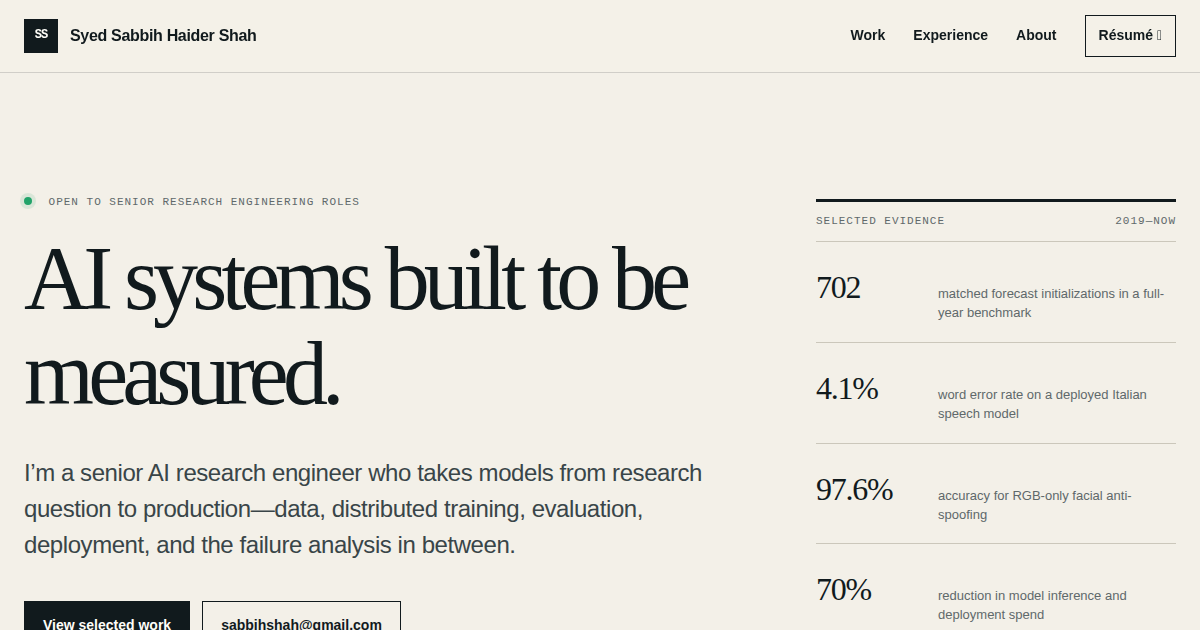
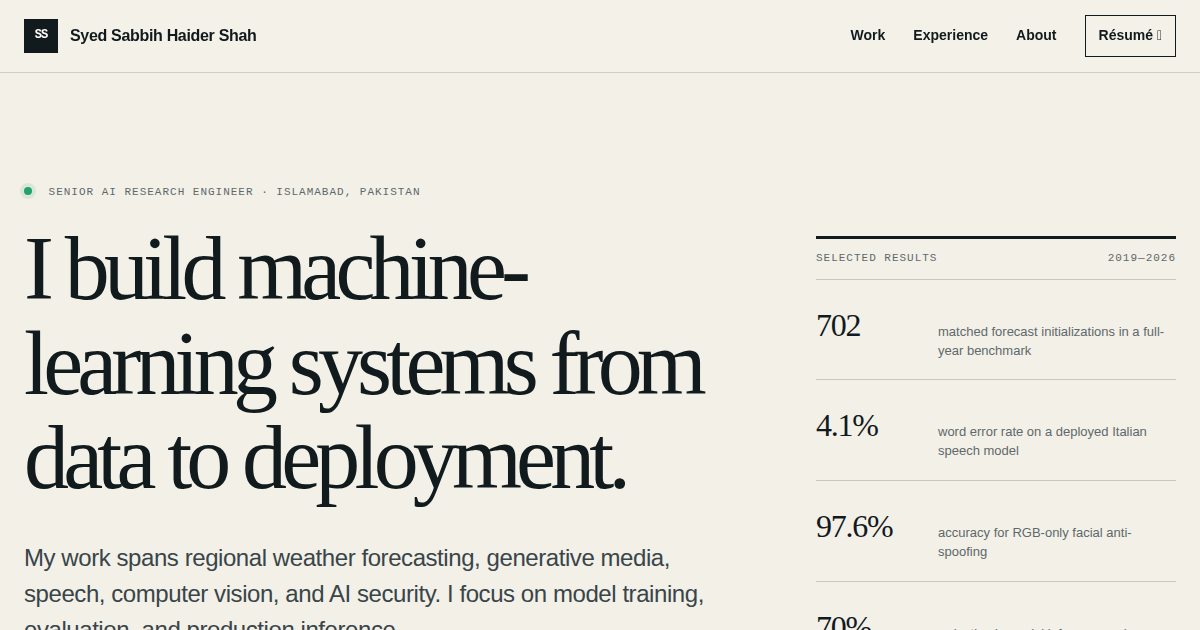
Replace generic portfolio copy with direct project language

diff --git a/index.html b/index.html
@@ -4,7 +4,7 @@
   <meta charset="utf-8">
   <meta name="viewport" content="width=device-width, initial-scale=1">
   <title>Syed Sabbih Haider Shah — Senior AI Research Engineer</title>
-  <meta name="description" content="Syed Sabbih Haider Shah builds and evaluates production AI systems across scientific machine learning, generative media, speech, vision, and AI security.">
+  <meta name="description" content="Senior AI research engineer working in weather forecasting, generative media, speech, computer vision, and AI security.">
   <meta name="author" content="Syed Sabbih Haider Shah">
   <meta name="theme-color" content="#f3f0e8">
   <link rel="canonical" href="https://sabbih-shah.github.io/">
@@ -12,7 +12,7 @@
   <link rel="stylesheet" href="/assets/css/site.css">
   <meta property="og:type" content="profile">
   <meta property="og:title" content="Syed Sabbih Haider Shah — Senior AI Research Engineer">
-  <meta property="og:description" content="Research engineering for systems that have to be measured, shipped, and trusted.">
+  <meta property="og:description" content="Weather forecasting, scientific ML, generative media, speech, computer vision, and AI security.">
   <meta property="og:url" content="https://sabbih-shah.github.io/">
   <meta property="og:image" content="https://sabbih-shah.github.io/assets/images/og-card.png">
   <meta name="twitter:card" content="summary_large_image">
@@ -68,19 +68,19 @@
   <main id="main">
     <section class="hero shell" id="top">
       <div class="hero-copy">
-        <p class="eyebrow"><span class="status-dot" aria-hidden="true"></span> Open to senior research engineering roles</p>
-        <h1>AI systems built to be measured.</h1>
-        <p class="hero-lede">I’m a senior AI research engineer who takes models from research question to production—data, distributed training, evaluation, deployment, and the failure analysis in between.</p>
+        <p class="eyebrow"><span class="status-dot" aria-hidden="true"></span> Senior AI Research Engineer · Islamabad, Pakistan</p>
+        <h1>I build machine-learning systems from data to deployment.</h1>
+        <p class="hero-lede">My work spans regional weather forecasting, generative media, speech, computer vision, and AI security. I focus on model training, evaluation, and production inference.</p>
         <div class="hero-actions">
-          <a class="button button-primary" href="#work">View selected work</a>
+          <a class="button button-primary" href="#work">Selected projects</a>
           <a class="button button-quiet" href="mailto:sabbihshah@gmail.com">sabbihshah@gmail.com</a>
         </div>
       </div>
 
       <aside class="hero-proof" aria-label="Selected evidence">
         <div class="proof-heading">
-          <span>Selected evidence</span>
-          <span>2019—now</span>
+          <span>Selected results</span>
+          <span>2019—2026</span>
         </div>
         <div class="proof-row">
           <strong>702</strong>
@@ -113,10 +113,10 @@
     <section class="section shell" id="work">
       <div class="section-heading">
         <div>
-          <p class="eyebrow">Selected work</p>
-          <h2>Research with an audit trail.</h2>
+          <p class="eyebrow">Selected projects</p>
+          <h2>Recent work</h2>
         </div>
-        <p>I care about the parts of applied AI that survive contact with reality: matched comparisons, explicit data contracts, hard quality gates, and results that include the misses.</p>
+        <p>Weather forecasting is my main research area. My recent independent work also covers agent security and multimodal production infrastructure.</p>
       </div>
 
       <article class="feature-project">
@@ -132,8 +132,8 @@
             <h3>Forecast evaluation at continental scale</h3>
           </div>
           <div class="feature-detail">
-            <p>Designed a matched 2024 verification study across 702 initialization times, four lead times, and eight forecasting systems. Surface fields were scored against URMA and precipitation against MRMS on common and native grids.</p>
-            <p>Thresholded warm and cold anomaly slices, paired lead-time checks, and case maps make the evaluation useful beyond one headline number.</p>
+            <p>Built a matched 2024 verification study across 702 initialization times, four lead times, and eight forecasting systems. Surface fields were scored against URMA and precipitation against MRMS on common and native grids.</p>
+            <p>Added warm and cold anomaly subsets, lead-time comparisons, and case maps to show where annual averages hide important errors.</p>
             <ul class="tag-list" aria-label="Project methods">
               <li>Spatiotemporal ML</li>
               <li>3 km CONUS grid</li>
@@ -173,19 +173,19 @@
               <div><strong>10</strong><span>held-out benchmarks</span></div>
               <div><strong>13,421</strong><span>generated pairs</span></div>
             </div>
-            <p class="honesty-note"><span>Method</span> Train/benchmark separation, license tracking, hard-negative design, threshold sweeps, and per-dataset reporting—including weak out-of-domain results.</p>
+            <p class="honesty-note"><span>Evaluation</span> Train/benchmark separation, license tracking, hard-negative design, threshold sweeps, and per-dataset reporting—including weak out-of-domain results.</p>
           </div>
         </article>
 
         <article class="project-card project-card-system">
           <div class="card-body">
             <div class="project-meta"><span>04 / Multimodal systems</span><span>Active R&amp;D</span></div>
-            <h3>A fail-closed production runtime for generative video</h3>
-            <p>Designed an orchestration layer for consistent short-form episodes across video, dialogue, Foley, lip sync, compositing, and final assembly. Every candidate is tied to its inputs, evaluator evidence, and retry history.</p>
+            <h3>Multimodal video production runtime</h3>
+            <p>Built an orchestration layer for short-form episodes across video, dialogue, Foley, lip sync, compositing, and final assembly. The runtime records each candidate’s inputs, evaluation evidence, and retry history.</p>
             <div class="system-flow" aria-label="Production workflow">
               <span>Plan</span><i aria-hidden="true"></i><span>Generate</span><i aria-hidden="true"></i><span>Measure</span><i aria-hidden="true"></i><span>Repair</span>
             </div>
-            <p class="honesty-note"><span>Engineering</span> 107 Python modules, 185 automated tests, resident multi-GPU queues, deterministic manifests, and smallest-unit regeneration.</p>
+            <p class="honesty-note"><span>Implementation</span> 107 Python modules, 185 automated tests, resident multi-GPU queues, deterministic manifests, and smallest-unit regeneration.</p>
           </div>
         </article>
       </div>
@@ -195,8 +195,8 @@
       <div class="shell">
         <div class="section-heading">
           <div>
-            <p class="eyebrow">Experience</p>
-            <h2>Seven years from model to production.</h2>
+            <p class="eyebrow">Professional experience</p>
+            <h2>Research and production engineering since 2019.</h2>
           </div>
           <a class="text-link" href="/cv/Sabbih_Shah_CV.pdf">Download the full résumé <span aria-hidden="true">↓</span></a>
         </div>
@@ -207,7 +207,7 @@
             <div class="role-main">
               <p class="role-org">Vayuh.ai</p>
               <h3>Senior AI Research Engineer</h3>
-              <p>Research and production work in regional weather forecasting, extreme-event analytics, multi-GPU training, and evaluation on NERSC Perlmutter and ORNL Frontier.</p>
+              <p>Train regional weather models, build extreme-event analytics, run multi-GPU workloads, and evaluate forecasts on NERSC Perlmutter and ORNL Frontier.</p>
             </div>
             <ul>
               <li>Spatiotemporal forecasting</li>
@@ -221,7 +221,7 @@
             <div class="role-main">
               <p class="role-org">Editable AI</p>
               <h3>AI Research Lead</h3>
-              <p>Lead applied weather-AI research, from severe-event dataset design and peril-specific models to reproducible hindcasts and clear public evaluation.</p>
+              <p>Lead severe-weather research from dataset design and peril-specific models to reproducible hindcasts and public evaluation.</p>
             </div>
             <ul>
               <li>Research direction</li>
@@ -248,7 +248,7 @@
             <div class="role-when">2019—2023</div>
             <div class="role-main">
               <p class="role-org">WeVoz · Pagarba Solutions · STech.ai · Teachinguide</p>
-              <h3>Applied ML engineering and team leadership</h3>
+              <h3>Earlier machine-learning roles</h3>
               <p>Shipped speech, vision, ranking, forecasting, and classification systems. Results include 4.1% Italian ASR WER, 97.6% RGB anti-spoofing accuracy, 96% top-3 recognition over 30,000 classes, and a 70% inference-cost reduction.</p>
             </div>
             <ul>
@@ -264,12 +264,12 @@
     <section class="section shell" id="about">
       <div class="about-grid">
         <div>
-          <p class="eyebrow">How I work</p>
-          <h2>Research depth, engineering discipline.</h2>
+          <p class="eyebrow">Methods &amp; tools</p>
+          <h2>What I work with</h2>
         </div>
         <div class="about-copy">
-          <p>I’m most useful where a research idea has to become a dependable system. I define the evaluation before optimizing the model, keep data and benchmark boundaries explicit, and build diagnostics that make failures actionable.</p>
-          <p>My background spans scientific ML, multimodal generation, speech, computer vision, and ML infrastructure. The common thread is simple: careful experiments, production constraints, and honest results.</p>
+          <p>I define the dataset, split, and evaluation protocol before model tuning. For production systems, I add explicit input contracts, failure checks, and reproducible outputs.</p>
+          <p>I work mainly in Python and PyTorch, with C++ and CUDA when latency or hardware control requires them.</p>
         </div>
         <dl class="practice-list">
           <div><dt>Modeling</dt><dd>PyTorch, Transformers, U-Nets, diffusion, cross-encoders, spatiotemporal models</dd></div>
@@ -288,11 +288,11 @@
 
     <section class="contact-section">
       <div class="shell contact-inner">
-        <p class="eyebrow">Contact</p>
-        <h2>Looking for a senior engineer who can own the research and the system?</h2>
-        <p>I’m open to senior and lead roles in research engineering, applied science, scientific ML, and generative AI systems.</p>
+        <p class="eyebrow">Availability</p>
+        <h2>Open to senior research engineering roles.</h2>
+        <p>I’m considering roles in scientific ML, applied research, ML systems, and generative media.</p>
         <div class="contact-links">
-          <a class="button button-light" href="mailto:sabbihshah@gmail.com">Email me</a>
+          <a class="button button-light" href="mailto:sabbihshah@gmail.com">Email</a>
           <a href="https://github.com/sabbih-shah">GitHub <span aria-hidden="true">↗</span></a>
           <a href="https://www.linkedin.com/in/syed-sabbih-haider-shah">LinkedIn <span aria-hidden="true">↗</span></a>
           <a href="https://www.kaggle.com/sabbih">Kaggle <span aria-hidden="true">↗</span></a>
@@ -304,7 +304,6 @@
   <footer class="site-footer">
     <div class="shell">
       <span>© <span id="year">2026</span> Syed Sabbih Haider Shah</span>
-      <span>Designed for clarity. Built as plain, accessible HTML.</span>
     </div>
   </footer>
 
